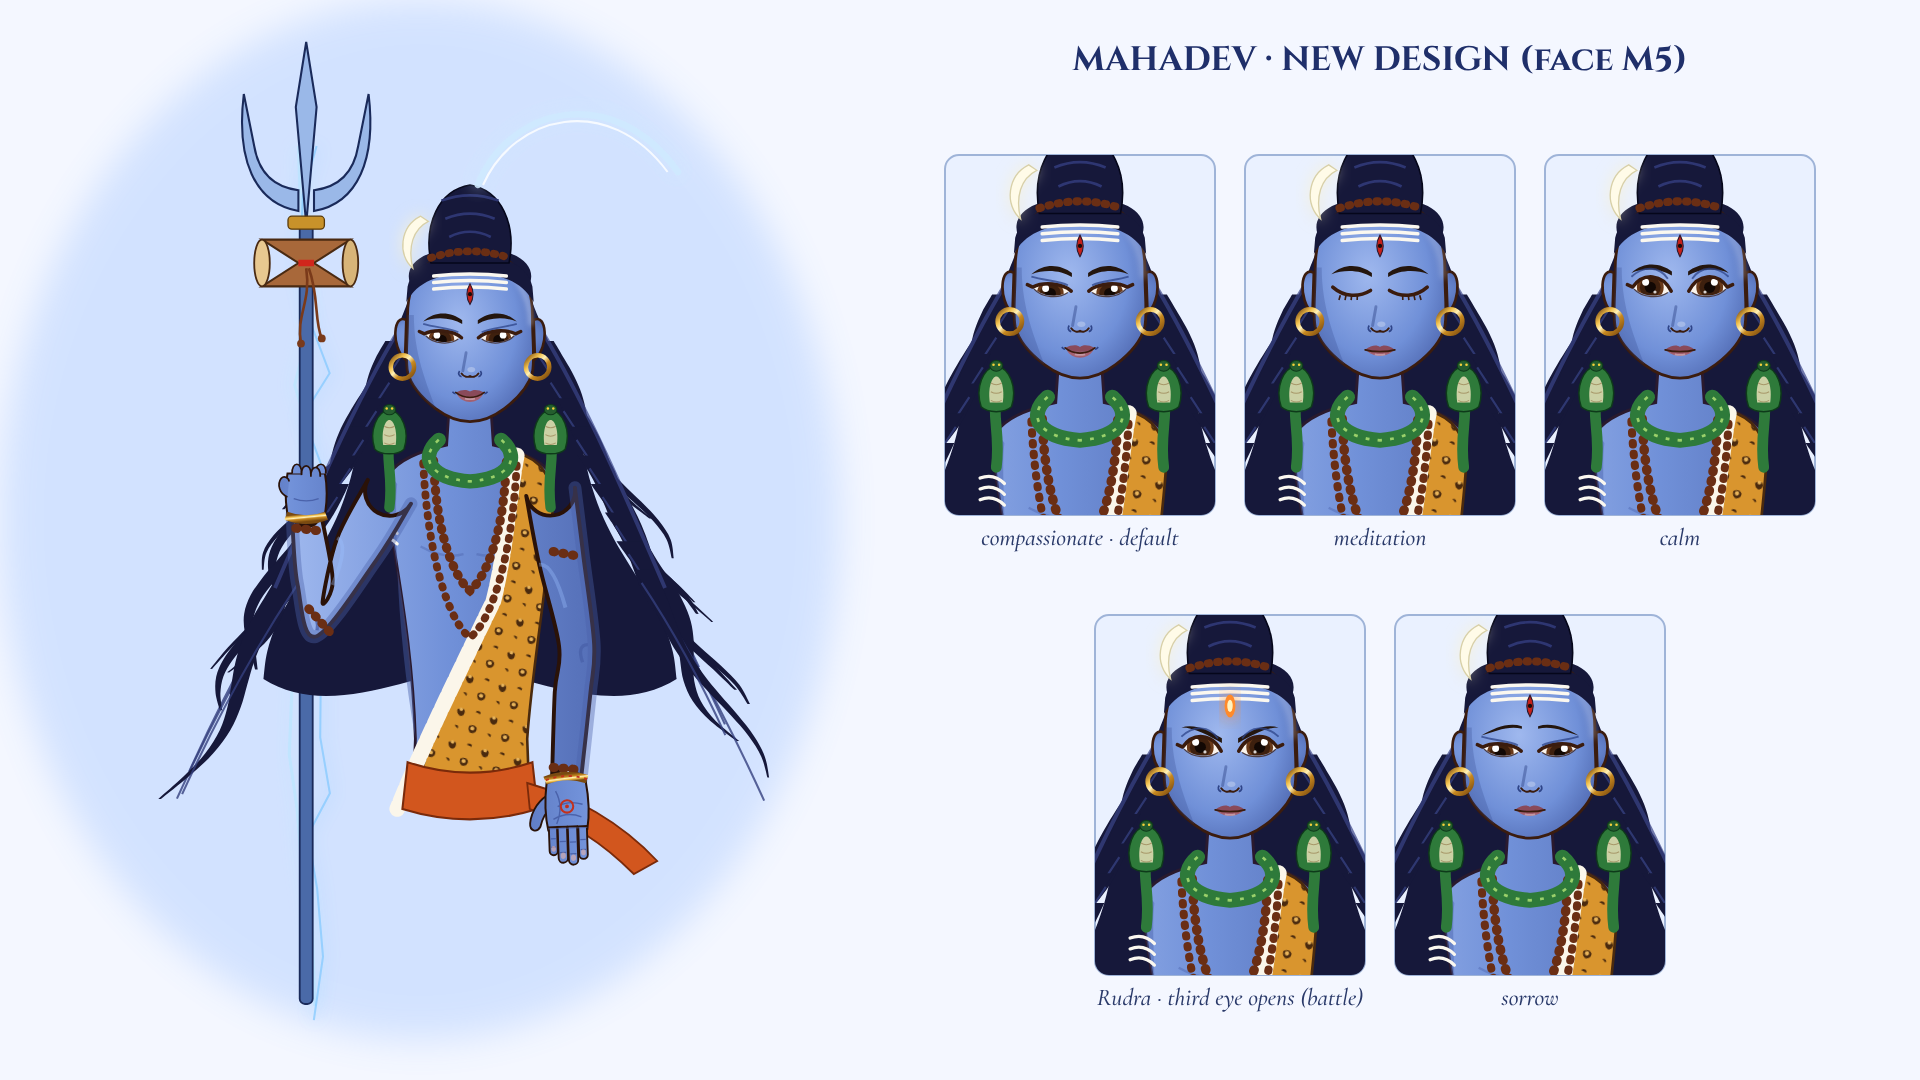
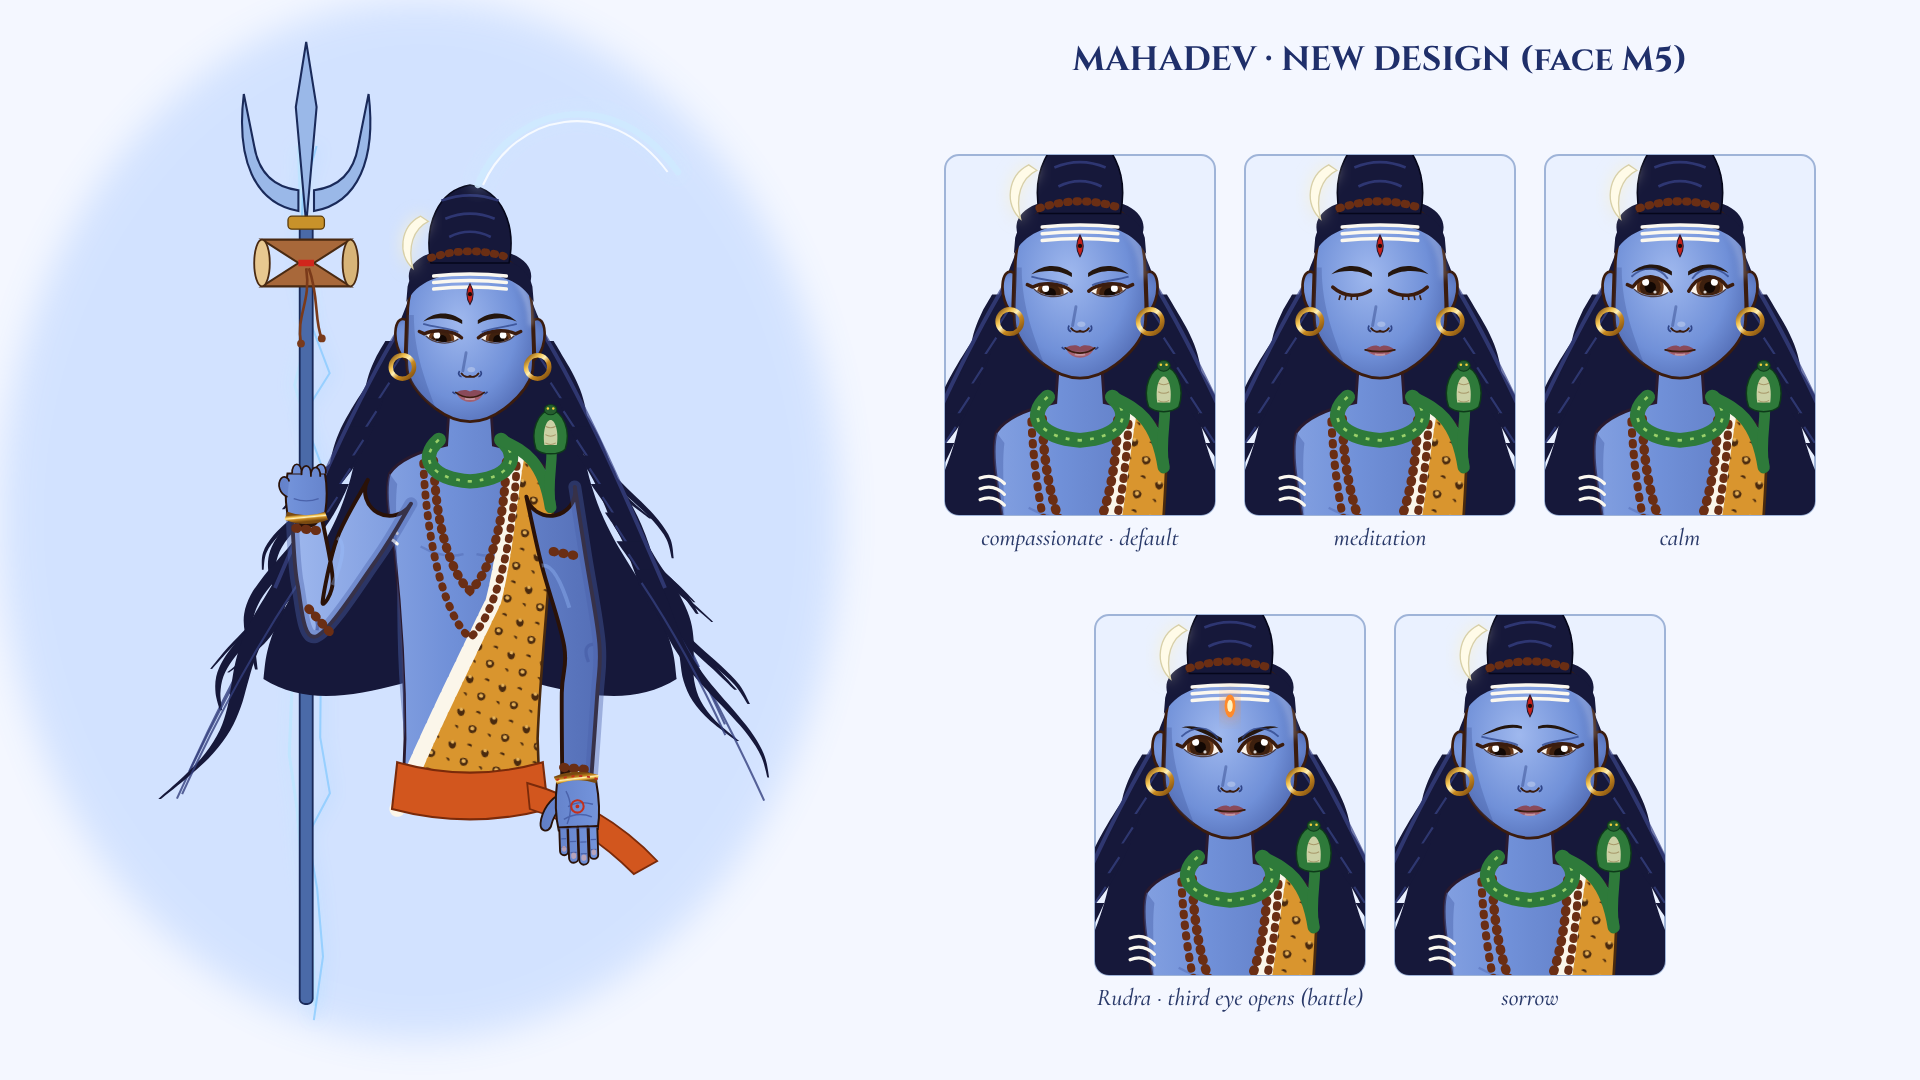
Mahadev: single snake (neck coil rising on the right shoulder), slightly wider waist
Claude-Session: https://claude.ai/code/session_01X3ArEdZK7W9b78YVvUKCgo

diff --git a/devotional-studio/style-frames/mahadev-v2.js b/devotional-studio/style-frames/mahadev-v2.js
@@ -72,17 +72,17 @@ function mahadevUpper(o = {}) {
     ? `<ellipse cx="0" cy="${by - 17}" rx="4" ry="8.5" fill="#ff8a2a" filter="url(#glow)"/><ellipse cx="0" cy="${by - 17}" rx="2" ry="4.6" fill="#fff3c0"/>`
     : `<path d="M0 ${by - 25} C 3 ${by - 20} 3 ${by - 14} 0 ${by - 9} C -3 ${by - 14} -3 ${by - 20} 0 ${by - 25}Z" fill="#c8201a" stroke="${INK}" stroke-width=".8"/><circle cx="0" cy="${by - 17}" r="1.6" fill="#1a0a0a"/>`;
   const tripundra = [0, 1, 2].map(k => `<path d="M-28 ${by - 31 + k * 5} Q 0 ${by - 34 + k * 5} 28 ${by - 31 + k * 5}" stroke="#fbf8f0" stroke-width="2.6" fill="none" stroke-linecap="round"/>`).join('');
-  const torso = 'M-16 120 L -18 150 C -36 154 -54 160 -62 172 C -66 186 -62 208 -58 232 C -52 270 -44 316 -42 376 L -44 430 L 44 430 L 42 376 C 44 316 52 270 58 232 C 62 208 66 186 62 172 C 54 160 36 154 18 150 L 16 120Z';
+  const torso = 'M-16 120 L -18 150 C -36 154 -54 160 -62 172 C -66 186 -62 208 -58 232 C -54 270 -50 316 -50 376 L -52 430 L 52 430 L 50 376 C 50 316 54 270 58 232 C 62 208 66 186 62 172 C 54 160 36 154 18 150 L 16 120Z';
   return `<g>
     ${hairBack(o.wind || 0)}
     <path d="${torso}" fill="${SK}" stroke="${INK}" stroke-width="2.2"/>
-    <path d="M-62 172 C -66 186 -62 208 -58 232 C -52 270 -44 316 -42 376 C -50 330 -54 290 -56 244 C -56 218 -58 196 -56 180Z" fill="${SH}" opacity=".45"/>
+    <path d="M-62 172 C -66 186 -62 208 -58 232 C -54 270 -50 316 -50 376 C -56 330 -56 290 -56 244 C -56 218 -58 196 -56 180Z" fill="${SH}" opacity=".45"/>
     <path d="M-38 228 Q -20 238 -5 234 M38 228 Q 20 238 5 234" stroke="${SH}" stroke-width="1.8" fill="none" opacity=".4"/><path d="M0 372 Q 4 379 0 386" stroke="${SH}" stroke-width="2.4" fill="none"/>
     ${[0, 1, 2].map(k => `<path d="M-74 ${206 + k * 8} Q -64 ${202 + k * 8} -56 ${210 + k * 8}" stroke="#fbf8f0" stroke-width="2.4" fill="none" stroke-linecap="round"/>`).join('')}
     <!-- tiger skin over the left shoulder, fur trim, orange sash -->
-    <path d="M28 154 C 48 158 62 166 64 194 C 60 258 48 318 44 376 L 46 430 L -44 430 C -36 380 -6 320 18 270 C 28 230 30 190 36 158Z" fill="url(#tigerPat)" stroke="#4a2a0e" stroke-width="2"/>
+    <path d="M28 154 C 48 158 62 166 64 194 C 62 258 54 318 52 376 L 54 430 L -52 430 C -36 380 -6 320 18 270 C 28 230 30 190 36 158Z" fill="url(#tigerPat)" stroke="#4a2a0e" stroke-width="2"/>
     <path d="M36 158 C 30 190 28 230 18 270 C -6 320 -36 380 -56 430" fill="none" stroke="#fbf6ea" stroke-width="12" stroke-linecap="round" stroke-dasharray="10 3"/>
-    <path d="M-48 394 Q 0 410 48 394 L 52 430 Q 0 446 -52 430Z" fill="#d2561e" stroke="#7a2a0a" stroke-width="1.6"/>
+    <path d="M-56 394 Q 0 410 56 394 L 60 430 Q 0 446 -60 430Z" fill="#d2561e" stroke="#7a2a0a" stroke-width="1.6"/>
     <path d="M44 410 C 80 420 116 440 144 470 L 126 480 C 102 456 78 440 46 430Z" fill="#d2561e" stroke="#7a2a0a" stroke-width="1.4"/>
     <!-- rudraksha mala -->
     <path d="M-28 162 C -26 224 -10 254 0 262 C 10 254 26 224 28 162" fill="none" stroke="#6a2e14" stroke-width="7" stroke-dasharray="1 6.5" stroke-linecap="round"/>
@@ -90,7 +90,7 @@ function mahadevUpper(o = {}) {
     <!-- neck snake + twin cobras -->
     <path d="M-24 146 C -40 160 -30 176 0 178 C 30 176 40 160 24 146" fill="none" stroke="#2e7a3a" stroke-width="11" stroke-linecap="round"/>
     <path d="M-24 146 C -40 160 -30 176 0 178 C 30 176 40 160 24 146" fill="none" stroke="#9ad06a" stroke-width="2" stroke-dasharray="3 6"/>
-    ${cobra(-62, 150, .8, false)}${cobra(62, 150, .8, true)}
+    <path d="M24 146 C 40 154 56 160 62 198" stroke="#2e7a3a" stroke-width="9" fill="none" stroke-linecap="round"/>${cobra(62, 150, .8, true)}
     ${F.faceP(face)}
     <path d="M-48 28 C -44 12 -28 4 0 4 C 28 4 44 12 48 28 L 49 40 C 40 24 24 18 0 18 C -24 18 -40 24 -49 40Z" fill="#16183a"/>
     <!-- top bun, rudraksha band, crescent, Ganga arc -->
@@ -106,11 +106,11 @@ function mahadevUpper(o = {}) {
 }
 
 function arms(o = {}) { // right arm raised holding the trishul; left arm across, open hand
-  const J1 = { sh: [-62, 186], el: [-116, 284], wr: [-126, 202] }, J2 = { sh: [62, 186], el: [82, 304], wr: [74, 410] };
+  const J1 = { sh: [-62, 186], el: [-116, 284], wr: [-126, 202] }, J2 = { sh: [62, 186], el: [86, 304], wr: [82, 410] };
   return `${A.arm(J1.sh, J1.el, J1.wr, SK, SH, [38, 36, 27, 28, 22])}${rud(-124, 276, -106, 296)}${rud(-134, 214, -116, 216)}
-    ${A.arm(J2.sh, J2.el, J2.wr, SK, SH, [38, 36, 27, 28, 22])}${rud(64, 232, 86, 236)}${rud(64, 398, 86, 400)}
+    ${A.arm(J2.sh, J2.el, J2.wr, SK, SH, [38, 36, 27, 28, 22])}${rud(64, 232, 86, 236)}${rud(72, 398, 94, 400)}
     <g transform="translate(-126,202) scale(.6)">${A.holdingHand(SK, SH, -1, false)}</g>
-    <g transform="translate(74,410) rotate(178) scale(.6)">${A.openPalm(SK, SH, 1)}</g>`;
+    <g transform="translate(82,410) rotate(178) scale(.6)">${A.openPalm(SK, SH, 1)}</g>`;
 }
 
 function mahadevSheet() {
